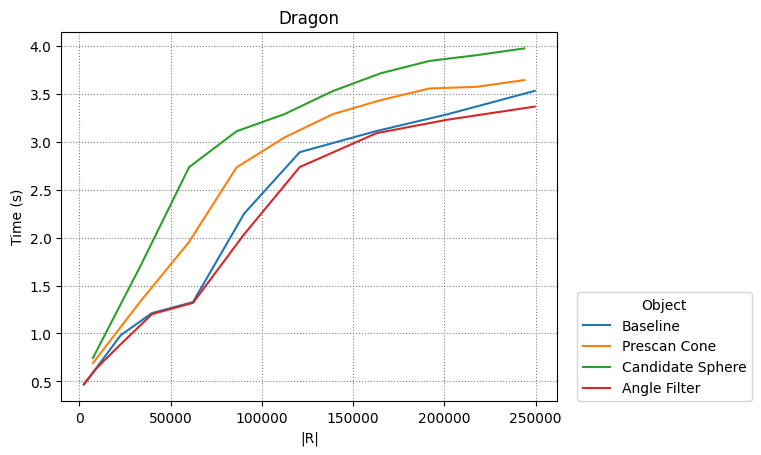
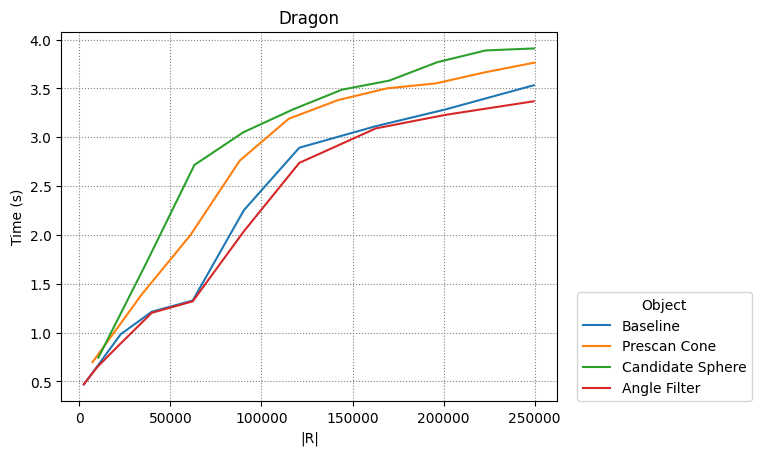
chamfer time

diff --git a/ray_field/candidate_sphere.py b/ray_field/candidate_sphere.py
@@ -70,8 +70,7 @@ class CandidateSphere(Algorithm):
 
     def chamfer(model_name: CheckpointName, length: int) -> tuple[list[float], list[int]]:
         model, device = utils.init_model(model_name)
-        N_end = (250000 - (CandidateSphere.prescan_n ** 2)) / (int(CandidateSphere.targeted_m) * 16)
-        N_values = np.linspace(50, N_end, length, dtype=int)
+        N_values = CandidateSphere._get_N_values(length)
 
         distances = np.zeros(len(N_values))
         R_values = np.zeros(len(N_values), dtype=int)
@@ -163,7 +162,7 @@ class CandidateSphere(Algorithm):
 
     def time(model_name: CheckpointName, length: int) -> tuple[list[float], list[int]]:
         model, device = utils.init_model(model_name)
-        N_values = np.linspace(50, 1900, length, dtype=int)
+        N_values = CandidateSphere._get_N_values(length)
 
         times = np.zeros(len(N_values))
         R_values = np.zeros(len(N_values), dtype=int)
@@ -197,7 +196,7 @@ class CandidateSphere(Algorithm):
 
                     times[i] = times[i] + time
                     
-                    if ((j + 1) % 6) == 0:
+                    if ((j + 1) % 12) == 0:
                         print(f'{time:.5f}', end='\t')
 
                     del origins, dirs, all_intersections, all_is_intersecting, radii, centers, intersections, intersection_normals, mesh
@@ -541,6 +540,10 @@ class CandidateSphere(Algorithm):
         gc.collect()
 
         return distances, R_values
+    
+    def _get_N_values(length: int):
+        N_end = (250000 - (CandidateSphere.prescan_n ** 2)) / (int(CandidateSphere.targeted_m) * 16)
+        return np.linspace(50, N_end, length, dtype=int)
 
     @staticmethod
     def _broad_scan(model: IntersectionFieldAutoDecoderModel, origins: torch.Tensor, dirs: torch.Tensor) -> tuple[torch.Tensor, torch.Tensor]:           

diff --git a/ray_field/prescan_cone.py b/ray_field/prescan_cone.py
@@ -70,8 +70,7 @@ class PrescanCone(Algorithm):
 
     def chamfer(model_name: CheckpointName, length: int) -> tuple[list[float], list[int]]:
         model, device = utils.init_model(model_name)
-        N_end = (250000 - (PrescanCone.prescan_n ** 2)) / int(PrescanCone.targeted_m)
-        N_values = np.linspace(50, N_end, length, dtype=int)
+        N_values = PrescanCone._get_N_values(length)
 
         distances = np.zeros(len(N_values))
         R_values = np.zeros(len(N_values), dtype=int)
@@ -163,7 +162,7 @@ class PrescanCone(Algorithm):
 
     def time(model_name: CheckpointName, length: int) -> tuple[list[float], list[int]]:
         model, device = utils.init_model(model_name)
-        N_values = np.linspace(50, 1900, length, dtype=int)
+        N_values = PrescanCone._get_N_values(length)
 
         times = np.zeros(len(N_values))
         R_values = np.zeros(len(N_values), dtype=int)
@@ -197,7 +196,7 @@ class PrescanCone(Algorithm):
 
                     times[i] = times[i] + time
                     
-                    if ((j + 1) % 6) == 0:
+                    if ((j + 1) % 12) == 0:
                         print(f'{time:.5f}', end='\t')
 
                     del origins, dirs, broad_intersections, broad_normals, intersections, intersection_normals, mesh
@@ -654,6 +653,10 @@ class PrescanCone(Algorithm):
         gc.collect()
 
         return distances, R_values
+    
+    def _get_N_values(length: int):
+        N_end = (250000 - (PrescanCone.prescan_n ** 2)) / int(PrescanCone.targeted_m)
+        return np.linspace(50, N_end, length, dtype=int)
 
     @staticmethod
     def _broad_scan(model: IntersectionFieldAutoDecoderModel, origins: torch.Tensor, dirs: torch.Tensor) -> torch.Tensor:
